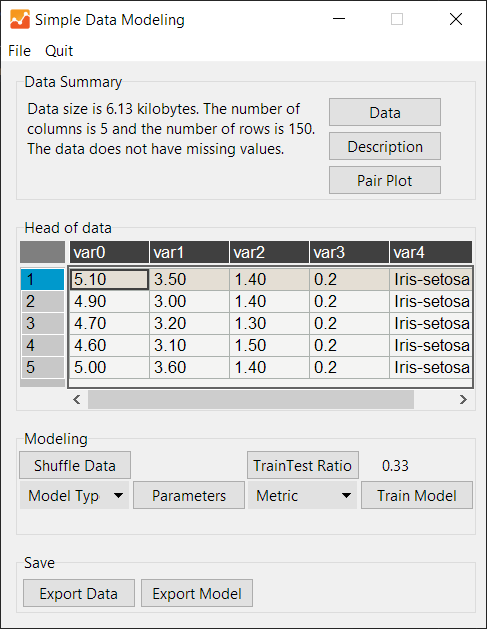
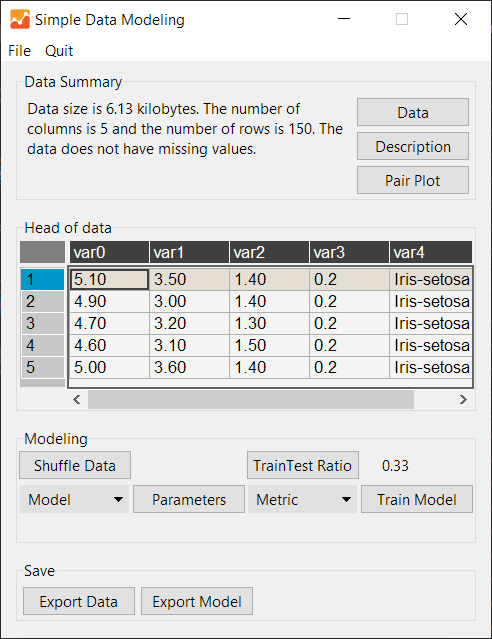
Addition of instructions

diff --git a/main.py b/main.py
@@ -47,10 +47,11 @@ __version__ = "0.0.1"
     - support for categorical data: use scikit ColumnTransfromer!
     - more models
     - real progressbars
+      (https://stackoverflow.com/questions/15323574/how-to-connect-a-progress-bar-to-a-function)
     - where left off
     - having multiple models at same time
     - cross validation
-
+    - fix bug for model paramters: when default was None, str input is just ignored
 """
 
 class MainWindow(Frame):
@@ -99,19 +100,18 @@ class MainWindow(Frame):
         self.subMenu = Menu(self.menuBar, tearoff=0)
         self.menuBar.add_cascade(label="File", menu=self.subMenu)
         self.subMenu.add_command(label="New", command=self.readData_createWindow)
-        self.subMenu.add_command(label="Save As...", command=self.save)
         self.subMenu.add_command(label="Load Model", command=self.laod_model)
         self.subMenu.add_separator()
-        self.subMenu.add_command(label="Properties", command=self.properties)
         self.subMenu.add_command(label="Help", command=self.help)
+        self.subMenu.add_command(label="About", command=self.about)
         self.menuBar.add_command(label="Quit", command=self.master.destroy)
 
     def readData_createWindow(self):
         try:
-            # filename = filedialog.askopenfilename()
-            # f = open(filename, "rb")
-            # self.set_header(self.header_bool)
-            f = 'http://archive.ics.uci.edu/ml/machine-learning-databases/iris/iris.data'
+            filename = filedialog.askopenfilename()
+            f = open(filename, "rb")
+            self.set_header(self.header_bool)
+            # f = 'http://archive.ics.uci.edu/ml/machine-learning-databases/iris/iris.data'
             header = self.header_bool.get() == 1
             self.data = pd.read_csv(f, header=0 if header else None, sep=',')
             if not header:
@@ -138,7 +138,7 @@ class MainWindow(Frame):
             .format(self.data.shape[1], self.data.shape[0])
         miss_data = "The data does have missing values." if self.data.isnull().values.any() \
             else "The data does not have missing values."
-        Message(data_frame, text=data_size + cols_rows + miss_data, width=315) \
+        Message(data_frame, text=data_size + cols_rows + miss_data, width=335) \
             .grid(row=0, column=0, columnspan=width-1, rowspan=3, sticky='NW')
         Button(data_frame, text="Data", width=13, command=self.show_data) \
                .grid(row=0, column=4, columnspan=1, padx=4, pady=4)
@@ -180,14 +180,14 @@ class MainWindow(Frame):
 
         # model selection
         ttk.Style().configure("TMenubutton", background="#E1E1E1")
-        self.model_btn = Menubutton(model_frame, text="Model Type", width=9)
+        self.model_btn = Menubutton(model_frame, text="Model", width=9)
         self.set_model(self.model_btn)
-        self.model_btn.grid(row=1, column=0, columnspan=1)
+        self.model_btn.grid(row=1, column=0, columnspan=1, padx=0, pady=4)
         Button(model_frame, text="Parameters", width=13, command=self.set_model_parameters) \
-               .grid(row=1, column=1, columnspan=1)
+               .grid(row=1, column=1, columnspan=1, padx=0, pady=4)
         self.metric_btn = Menubutton(model_frame, text="Metric", width=9)
         self.set_metric(self.metric_btn)
-        self.metric_btn.grid(row=1, column=2, columnspan=1)
+        self.metric_btn.grid(row=1, column=2, columnspan=1, padx=0, pady=4)
 
         # model training
         self.score = -1
@@ -337,15 +337,23 @@ class MainWindow(Frame):
         return _setCat
     ### ------------------------------ ###
 
-    def save(self):
-        pass
-
     def properties(self):
         pass
 
     def help(self):
-        showinfo("Information", "This Application is for small data modeling tasks.\n\n" \
-            + "Authors\t{}\nVersion\t{}".format(__author__, __version__))
+        instructions = "Instructions\n" \
+            + "1) Load your data which is formated as csv file.\n" \
+            + "2) Make sure loading worked by checking the displayed ´Head of Data´\n" \
+                + "    or pressing the ´Data´ button to see the whole dataset.\n" \
+            + "3) In the ´Head of Data´ press the column names to change their type" \
+                + "      and to select the output feature.\n" \
+            + "4) Select your appropriate model and change its parameters if needed.\n" \
+            + "5) Save your predictions and model.\n"
+        showinfo("Information", instructions)
+
+    def about(self):
+        showinfo("About", "This Application is for small data modeling tasks.\n\n" \
+            + "Author\t{}\nVersion\t{}".format(__author__, __version__))
 
     def set_traintest(self):
         train_test_ratio = self.train_test_ratio_str.get()
@@ -682,6 +690,25 @@ class MainWindow(Frame):
         """
         self.data = self.data.sample(frac=1)
 
+        class Notification(Frame):
+            def __init__(self, master=None):
+                top = self.top = Toplevel(master)
+                top.attributes("-topmost", True)
+                window_height = 75
+                window_width = 225
+                screen_width = top.winfo_screenwidth()
+                screen_height = top.winfo_screenheight()
+                x_cordinate = int((screen_width/2) - (window_width/2))
+                y_cordinate = int((screen_height/2) - (window_height/2))
+                top.geometry("{}x{}+{}+{}".format(window_width, window_height,
+                                                  x_cordinate, y_cordinate))
+                top.title('')
+                Label(top, text="\nShuffeld\n", anchor=CENTER).pack()
+                return
+
+        popup = Notification(self.master)
+        self.after(500, lambda: popup.top.destroy())
+
     def startModel(self):
         """
         Main action for trainig the selected model on the data.
@@ -822,22 +849,29 @@ class Model():
 
 class LoadingWindow():
     def __init__(self, master, model_name):
-        self.window = Toplevel()
+        self.window = window = Toplevel()
         self.model_name = model_name
-        self.window.title("Training {} Model".format(self.model_name))
-        self.window.attributes("-topmost", True)
-        self.window.geometry("500x75")
-        self.window.grid()
-        self.window.resizable(0, 0)
-        Label(self.window, text="").grid(row=0, column=0, sticky='N')
-        Label(self.window, text="        Training Progress  ") \
+        window.title("Training {} Model".format(self.model_name))
+        window.attributes("-topmost", True)
+        window_height = 75
+        window_width = 500
+        screen_width = window.winfo_screenwidth()
+        screen_height = window.winfo_screenheight()
+        x_cordinate = int((screen_width/2) - (window_width/2))
+        y_cordinate = int((screen_height/2) - (window_height/2))
+        window.geometry("{}x{}+{}+{}".format(window_width, window_height,
+                                            x_cordinate, y_cordinate))
+        window.grid()
+        window.resizable(0, 0)
+        Label(window, text="").grid(row=0, column=0, sticky='N')
+        Label(window, text="        Training Progress  ") \
             .grid(row=1, column=0, sticky='N')
         self.progress_var = DoubleVar(0)
         self.progressbar = Progressbar(self.window, variable=self.progress_var,
                                        orient="horizontal", length=300,
                                        mode="determinate",  maximum=100)
         self.progressbar.grid(row=1, column=1, sticky='N')
-        self.window.pack_slaves()
+        window.pack_slaves()
 
     def progress(self):
         if self.progressbar["value"] < 100:
@@ -856,7 +890,7 @@ class LoadingWindow():
 if __name__ == "__main__":
 
     root = Tk()
-    root.geometry("485x565")
+    root.geometry("490x575")
     root.iconbitmap(default=os.path.join(os.path.dirname(__file__), 'icon.ico'))
     root.resizable(0, 0) # Don't allow resizing in the x or y direction
     try: ctypes.windll.shell32.SetCurrentProcessExplicitAppUserModelID(" ")
